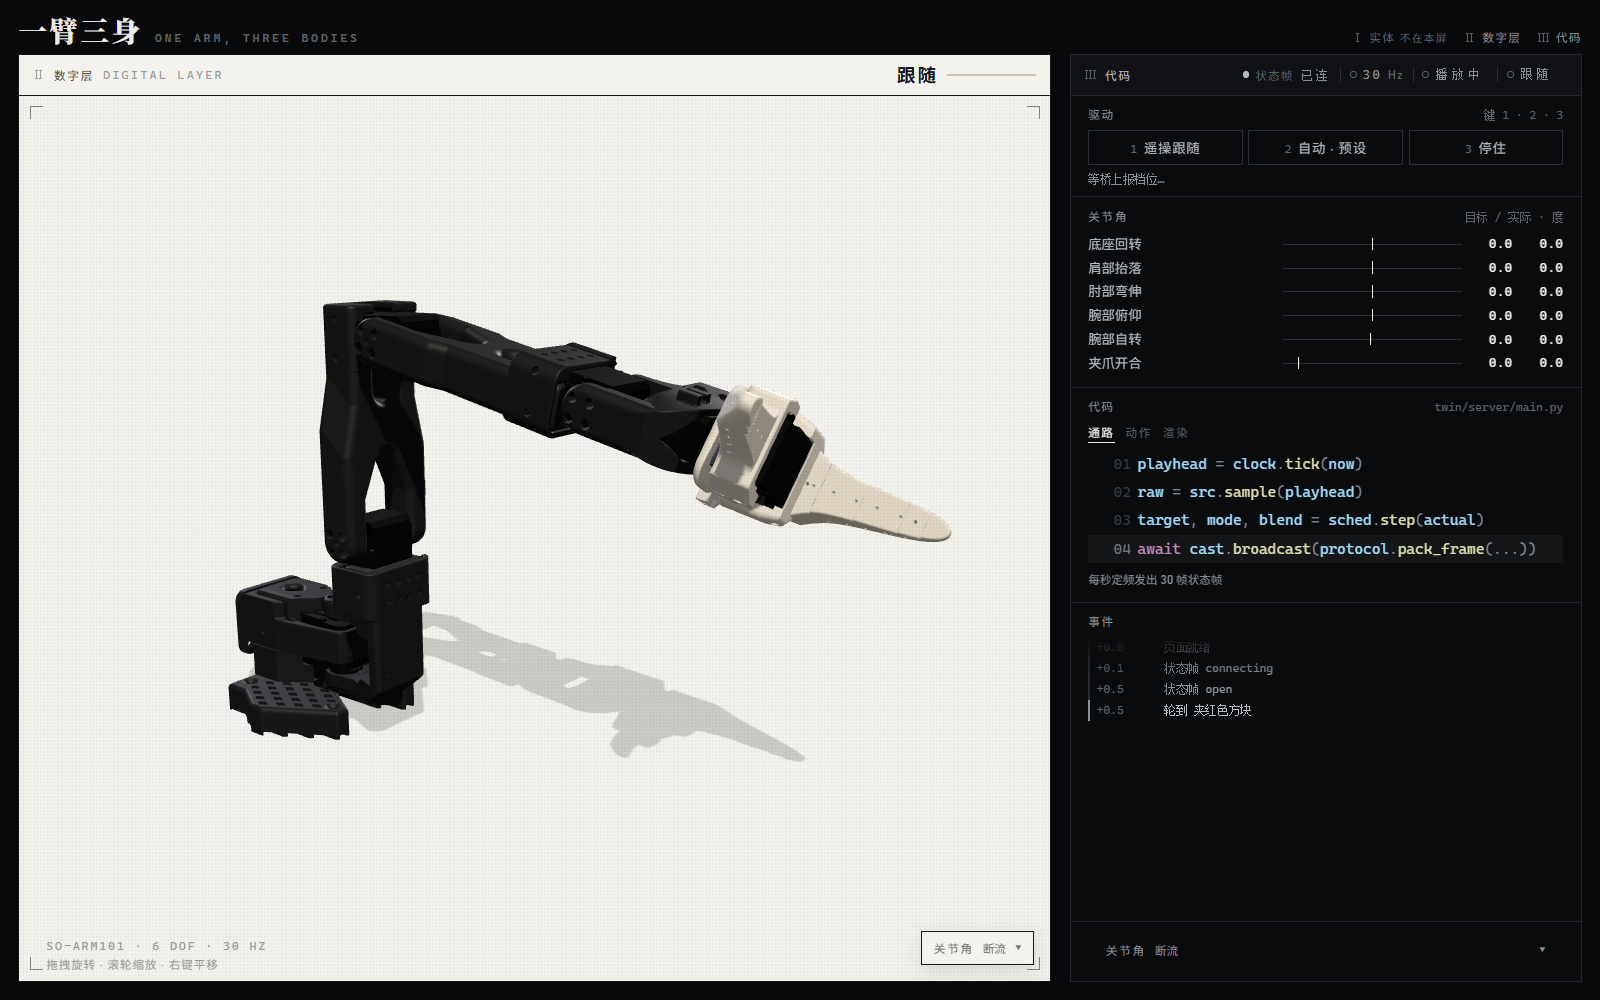
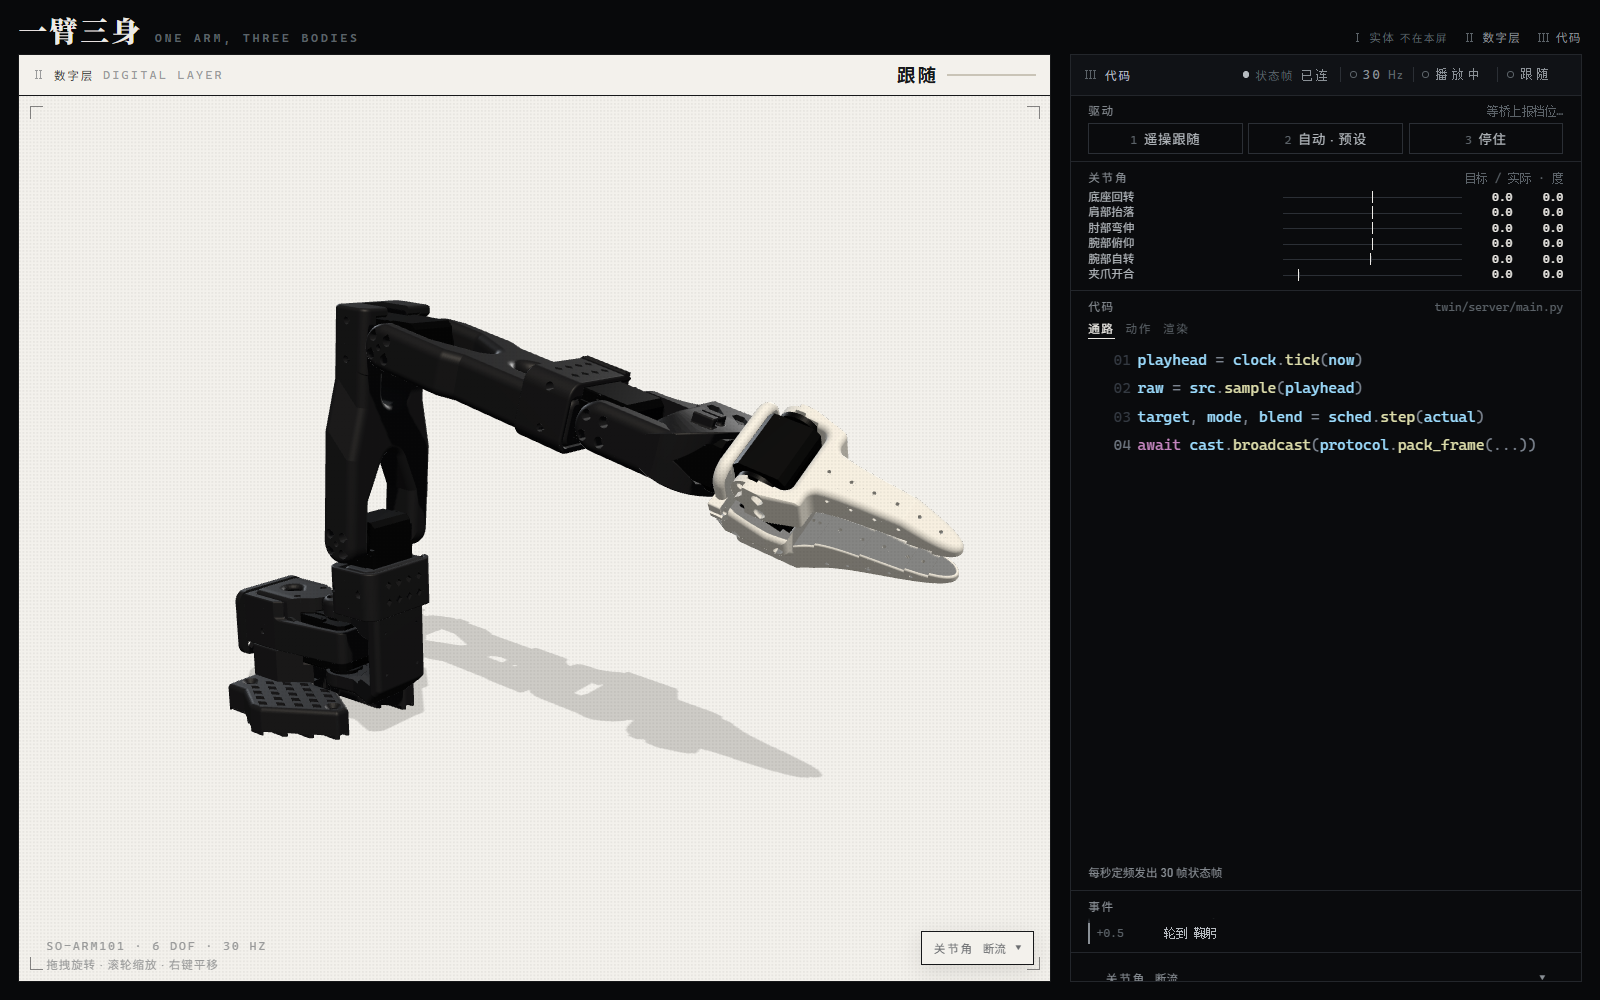
视觉微调：夹爪改近白；代码层让出主体（60%），其余块压缩
- 夹爪 #f3f0e9 → #fbfcfa：靠冷暖差而非明度差和纸底分开
- 代码块 min-height 60vh（实测占视口 60%、占内容区 65.6%）
- 关节角改容器查询两列布局，高度从 169px 降到 108px
- 驱动档状态并进标题行，去掉单独一行
- 事件区给下限 4.2u，避免被压成一条标题

diff --git a/twin/web/styles.css b/twin/web/styles.css
@@ -414,20 +414,22 @@ body {
   /* 不许被压缩：flex 默认会按比例缩，事件一多前面几块就被压扁、文字叠到一起。
      高度不够时应该只让 grow 的那一块（事件流）缩，并在它内部滚。 */
   flex: 0 0 auto;
-  padding: calc(var(--u) * 0.7) var(--pad) calc(var(--u) * 0.8);
+  padding: calc(var(--u) * 0.45) var(--pad) calc(var(--u) * 0.5);
   border-bottom: 1px solid var(--rule);
 }
 #console .block:last-child { border-bottom: 0; }
-/* 高度怎么分：代码按内容占（最多 16u，再多就自己滚），事件区吃剩下的。
-   反过来（代码 grow）会让 4 行代码下面空一大片黑，而事件流被压成三行。 */
-#console .block.grow { flex: 1 1 auto; min-height: 0; }
-#console .block.sec-code { flex: 0 1 auto; overflow: hidden; }
+/* 高度怎么分：代码是这块屏的主体，至少占 60%；事件吃剩下的，不够就自己滚。
+   不这么写的话，关节角和驱动两块加起来会吃掉半屏，代码只剩四行。
+   用 vh 而不是 %：flex item 的百分比 min-height 在父容器是 flex 时不可靠。 */
+#console .block.sec-code { flex: 1 1 auto; min-height: 60vh; overflow: hidden; }
+/* 事件给一个下限：代码块 60vh 是硬要求，但事件被压到只剩标题就没意义了 */
+#console .block.grow { flex: 1 1 0; min-height: calc(var(--u) * 4.2); }
 
 .block-head {
   display: flex;
   align-items: baseline;
   gap: calc(var(--u) * 0.55);
-  margin: 0 0 calc(var(--u) * 0.55);
+  margin: 0 0 calc(var(--u) * 0.32);
   font-size: var(--t-xs);
   font-weight: 400;
   letter-spacing: 0.16em;
@@ -494,13 +496,26 @@ body {
 
 /* 关节角 */
 
+/* 屏够宽就两列：六行单列要吃掉五分之一屏高，而这块屏的高度要留给代码。
+   用容器查询而不是媒体查询 —— 看的是 console 自己多宽，不是窗口多宽
+   （both 视图里窗口很宽但 console 只有 600）。 */
+#console { container-type: inline-size; }
+.jgrid { display: grid; grid-template-columns: minmax(0, 1fr); }
+@container (min-width: 700px) {
+  .jgrid {
+    grid-template-columns: minmax(0, 1fr) minmax(0, 1fr);
+    column-gap: calc(var(--u) * 1.6);
+  }
+}
+
 .jrow {
   display: grid;
   grid-template-columns: minmax(0, 1.05fr) minmax(0, 1fr) 5.4ch 5.4ch;
   align-items: center;
   gap: calc(var(--u) * 0.45);
-  /* 六行要挤在代码区之上，行距压紧一点，别抢代码的地方 */
-  padding: calc(var(--u) * 0.13) 0;
+  /* 六行读数要挤在代码区之上：行距压到能读但不占地方 */
+  padding: calc(var(--u) * 0.05) 0;
+  line-height: 1.15;
 }
 .jrow.jhead {
   font-size: var(--t-xs);
@@ -510,7 +525,7 @@ body {
 .jhead .jnum { font-family: var(--font-sans); color: var(--ink-4); }
 .jname {
   overflow: hidden;
-  font-size: var(--t-sm);
+  font-size: var(--t-xs);
   color: var(--ink-2);
   text-overflow: ellipsis;
   white-space: nowrap;
@@ -518,7 +533,7 @@ body {
 .jhead .jname { font-size: var(--t-xs); color: var(--ink-4); }
 .jnum {
   font-family: var(--font-mono);
-  font-size: var(--t-sm);
+  font-size: var(--t-xs);
   font-variant-numeric: tabular-nums;
   text-align: right;
   color: var(--ink);
@@ -562,7 +577,7 @@ body {
 /* 驱动档：代码层最上面那一格。三个按钮是唯一能让观众看见「谁在动」的开关。
    选中态用墨色，不用信号红 —— 红只留给「数字层偏离实机」。 */
 
-#console .block.drive { padding-bottom: calc(var(--u) * 0.7); }
+#console .block.drive { padding-bottom: calc(var(--u) * 0.45); }
 .drivebar {
   display: grid;
   grid-template-columns: repeat(3, minmax(0, 1fr));
@@ -573,7 +588,7 @@ body {
   align-items: baseline;
   justify-content: center;
   gap: 0.45em;
-  padding: calc(var(--u) * 0.45) calc(var(--u) * 0.4);
+  padding: calc(var(--u) * 0.32) calc(var(--u) * 0.4);
   /* 透明底 + 一条细边：它是控件，不该是这块屏上最亮的东西 */
   border: 1px solid var(--rule-2);
   background: transparent;
@@ -599,13 +614,8 @@ body {
   color: var(--ink);
 }
 .dbtn.on b { color: var(--ink-2); }
-.drive-state {
-  margin: calc(var(--u) * 0.45) 0 0;
-  font-family: var(--font-mono);
-  font-size: var(--t-xs);
-  color: var(--ink-3);
-  font-variant-numeric: tabular-nums;
-}
+/* 档位状态并进了 .block-head 的 em，不再单占一行 */
+.drive-state { color: var(--ink-3); }
 #console .block.drive.paused .drive-state { color: var(--ink); }
 
 /* 代码轮转 */
@@ -632,12 +642,10 @@ body {
    而不是「一个列表刚好有 5 行」。 */
 ol.code {
   --code-mask: linear-gradient(to bottom, transparent 0, #000 6%, #000 92%, transparent 100%);
-  /* 列表本身不拉伸：块可以 grow，但列表高度跟着内容走 ——
-     否则 4 行代码下面会空出一大片，而「动作之间的停顿」那行说明被推到最底下。 */
-  flex: 0 1 auto;
-  min-height: calc(var(--u) * 4);
-  /* 关键帧多的动作能列二三十行。给个上限内部滚，别把下面两段挤没了 */
-  max-height: calc(var(--u) * 16);
+  /* 列表在代码块里撑满：内容少时下面留黑是终端的样子，内容多时在块内滚 */
+  flex: 1 1 auto;
+  min-height: 0;
+  max-height: none;
   margin: 0;
   padding: calc(var(--u) * 0.12) 0;
   overflow-y: auto;

diff --git a/twin/web/src/console.js b/twin/web/src/console.js
@@ -166,10 +166,12 @@ export function createConsole(root, { joints, modeBar, onDrive }) {
 
   // ────────────────────────────────────────────── 驱动档
   // 放最上面：演示时最先动的就是它。观众看到的每一行读数都取决于这一档。
+  // 档位状态并进标题行（右边那一小段），单独占一行太贵 —— 这块屏的位置要留给代码。
   const driveBlock = el('section', 'block drive');
+  const driveState = el('em', 'drive-state', '等桥上报档位…');
   {
     const h = el('h2', 'block-head');
-    h.append(el('span', 'lead', '驱动'), el('em', null, '键 1 · 2 · 3'));
+    h.append(el('span', 'lead', '驱动'), driveState);
     driveBlock.append(h);
   }
   const driveBar = el('div', 'drivebar');
@@ -182,8 +184,7 @@ export function createConsole(root, { joints, modeBar, onDrive }) {
     driveBar.append(b);
     return b;
   });
-  const driveState = el('p', 'drive-state', '等桥上报档位…');
-  driveBlock.append(driveBar, driveState);
+  driveBlock.append(driveBar);
 
   // ────────────────────────────────────────────── 关节角
   const jointBlock = el('section', 'block');
@@ -194,6 +195,11 @@ export function createConsole(root, { joints, modeBar, onDrive }) {
     h.append(el('span', 'lead', '关节角'), el('em', null, '目标 / 实际 · 度'));
     jointBlock.append(h);
   }
+
+  // 六行读数放进一个网格里：屏够宽就分两列，高度直接省一半 —— 这块屏的高度
+  // 得留给代码，六行单列排下来要吃掉一整屏的五分之一。
+  const jointGrid = el('div', 'jgrid');
+  jointBlock.append(jointGrid);
 
   const rows = joints.map(({ name, lower, upper }) => {
     // listJoints 给的是 URDF 的弧度，这里的读数全是度 —— 先换过来再比，
@@ -211,7 +217,7 @@ export function createConsole(root, { joints, modeBar, onDrive }) {
     const tgtNum = el('span', 'jnum', '0.0');
     const actNum = el('span', 'jnum', '0.0');
     row.append(nameEl, gauge, tgtNum, actNum);
-    jointBlock.append(row);
+    jointGrid.append(row);
     const r = {
       name,
       lower: lo,

diff --git a/twin/web/src/robot.js b/twin/web/src/robot.js
@@ -132,7 +132,9 @@ export function countMeshes(root) {
 // 做不出"磨砂黑在纸背景上的那一点高光"，黑色会糊成一片。
 const BODY_COLOR = new THREE.Color('#1a1b1f');
 const SERVO_COLOR = new THREE.Color('#0d0e10');
-const JAW_COLOR = new THREE.Color('#f3f0e9');
+// 夹爪要「更白」：白到接近纯白，但不能和纸底撞色 —— 纸是 #f3f1ec（暖），
+// 这里偏冷一点点（同亮度、蓝通道略高），靠冷暖差而不是明度差把两片颚从背景里分出来。
+const JAW_COLOR = new THREE.Color('#fbfcfa');
 
 /** 往上找最近的 URDF link 名。夹爪判定靠它，不靠网格文件名 */
 function linkNameOf(obj) {
